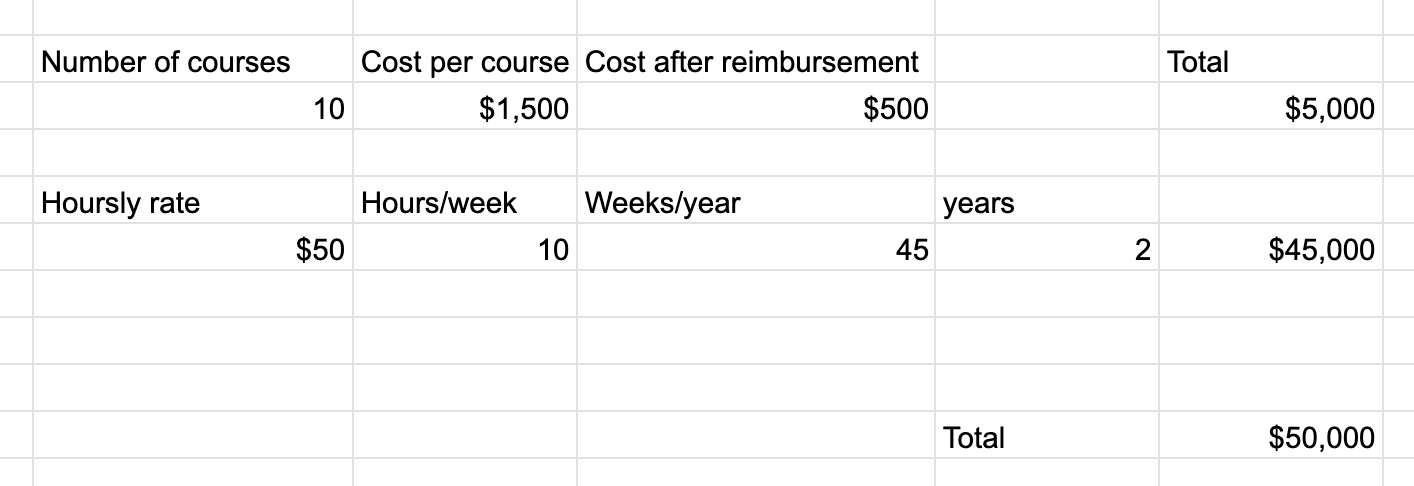
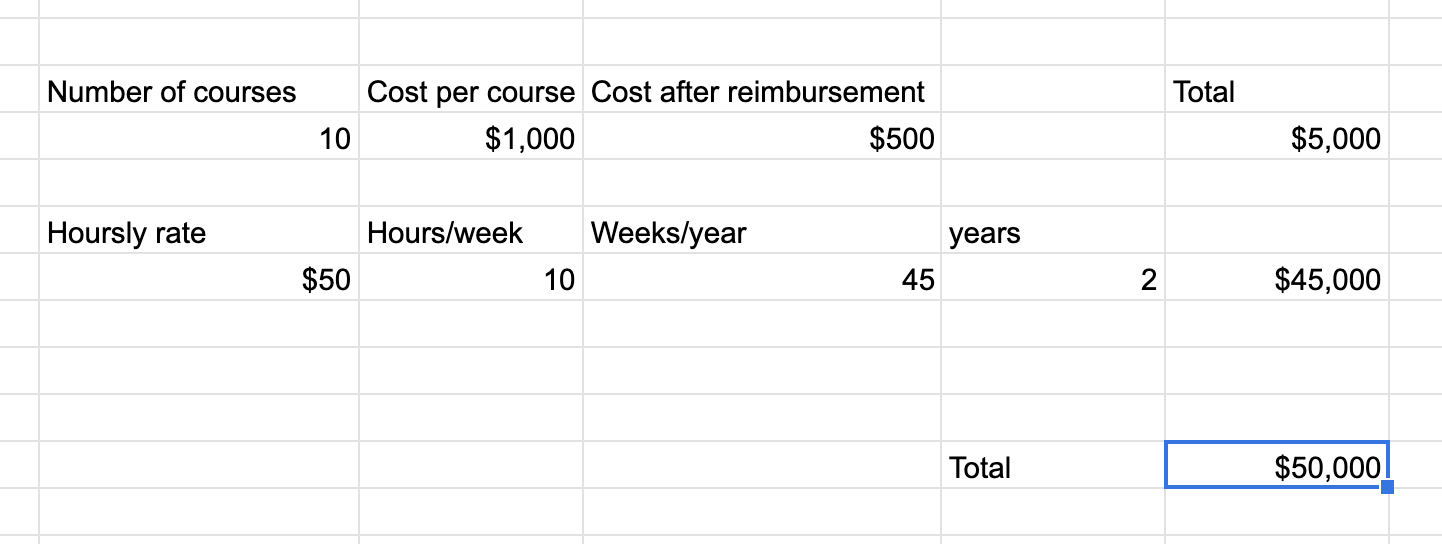
update about tuition reimbursement

diff --git a/_posts/2021-09-15-should-i-get-a-masters.md b/_posts/2021-09-15-should-i-get-a-masters.md
@@ -48,7 +48,7 @@ Cost is a big consideration.  If you are considering an Online MBA, currently th
 
 I graduated from UIUC (number 25 on this list of affordable options, number 5 in the nation on US News & World Report) and know many people that graduated from Georgia Tech (number 1 on this list of affordable options, number 8 in the nation on US News & World Report). Both are much more affordable than other programs and all of your school work can be done on your schedule, wherever you are on in the world.  When I was applying to schools for an MBA, I read an [article from Poets & Quants](https://poetsandquants.com/2019/10/01/the-best-low-cost-online-mbas/) and that is what helped me decide to apply to UIUC and Boston University.
 
-A big piece of the equation is the how much will your employer chip in? Many employers will have some type of program to help pay for higher education of some sort. Most of the time it will be percentage based or capped by a certain amount per year. Also take into consideration that you will likely have to front the money for this, meaning you will need to pay the tuition upfront (or could get loans, the FAFSA is still a thing, and I qualified for loans from filling it out, but did not apply for them), then your company will reimburse you if you receive a certain grade or other standard. This is where you get out a spreadsheet and figure out the cost to you personally. Say the course costs $1500 and your company pays 2/3 if you get a "B" or higher. If you meet all the marks for the cost then you are looking at a cost to you of $500. If you have 10 courses in the program and they are all like this scenario. Then although the program/degree costs $15,000, you are looking at $5,000 cost to you.
+A big piece of the equation is the how much will your employer chip in? Many employers will have some type of program to help pay for higher education of some sort. According to a survey by [International Foundation of Employee Benefit Plans](https://www.ifebp.org/bookstore/education-benefits-survey-results/Pages/education-benefits-survey-results-2019.aspx) 92% of U.S. employers have some sort of educational benefit. 57% of U.S employers had some form of tuition reimbursement for at least the last 6 years. Most of the time it will be percentage based or capped by a certain amount per year. Also take into consideration that you will likely have to front the money for this, meaning you will need to pay the tuition upfront (or could get loans, the FAFSA is still a thing, and I qualified for loans from filling it out, but did not apply for them), then your company will reimburse you if you receive a certain grade or other standard. This is where you get out a spreadsheet and figure out the cost to you personally. Say the course costs $1000 and your company pays 1/2 if you get a "B" or higher. If you meet all the marks for the cost then you are looking at a cost to you of $500. If you have 10 courses in the program and they are all like this scenario. Then although the program/degree costs $10,000, you are looking at $5,000 cost to you. Remember to read the fine print. There may be stipulations that you have to be employed for a certain amount of time before you qualify and/or may need to stay employed a certain amount of time to not have to pay back the reimbursed amount. 
 
 Time is likely to be the biggest cost and stressor. For many, I believe more so than the money. However I will not discount that that money is always a major stressor for many people. When doing my Master's of Computer Science, I specifically chose to take a job making less money because I knew that company allowed "compressed" schedules. I was able to work 4 days per week at 10 hour days and have Friday to focus on school. An added benefit to this schedule was that for over a year, I was able to take my daughter to gymnastics every Friday morning, something that was not possible with a traditional work schedule. You have to be creative to make time work for you, and for me the most important thing has been to form a habit, get into a routine and use "found time".  I love my current day job, and not longer have the extra time to do 10-20 hours per week necessary for and MBA. So I have decided to commit roughly 5 hours per week over the next year to study business using courses from Harvard Business School Online and self study using books on CD free from the library.
 
